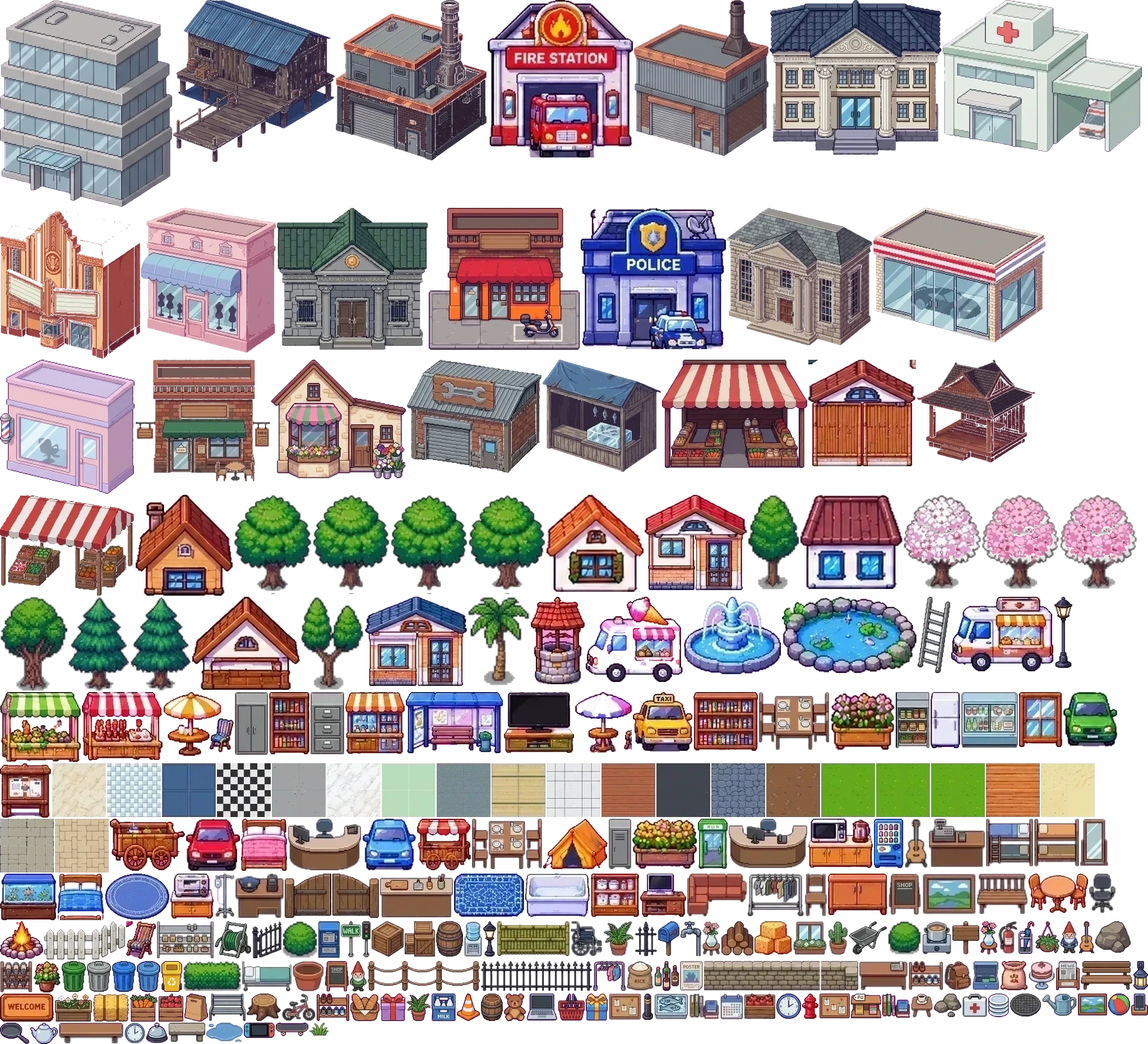
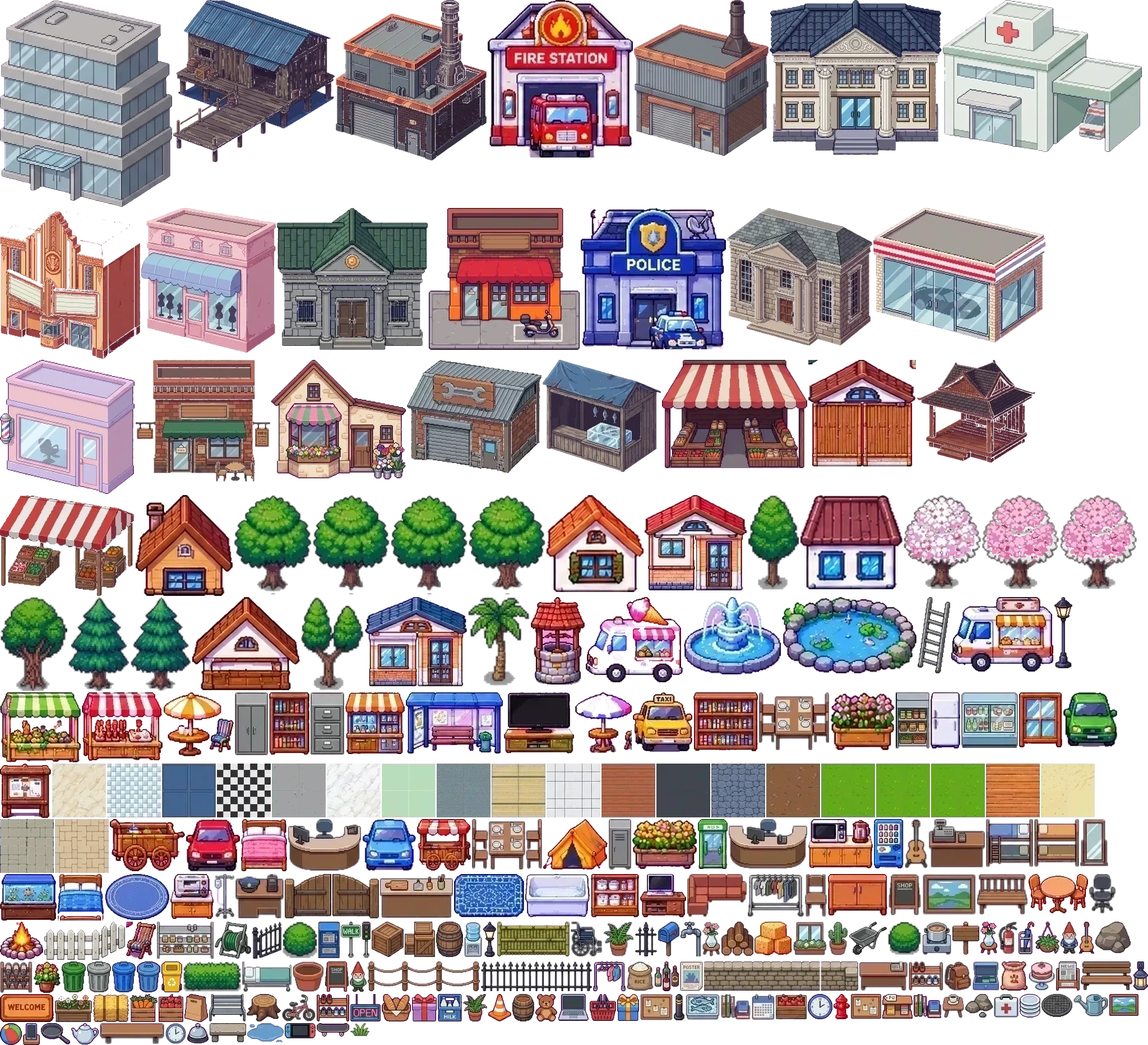
Neon OPEN signs beside shop doors (shown only while the shop is open) and a cake on show outside the restaurant
Claude-Session: https://claude.ai/code/session_011vTRLcvJmqJKhBboYRSi88

diff --git a/server/data.js b/server/data.js
@@ -261,6 +261,9 @@ for (const [x, y] of [[50, 52], [50, 66], [30, 47], [70, 15], [25, 15], [50, 10]
 prop('newsbox', 57.3, 38.9); prop('bollard', 47.6, 39.95); prop('bollard', 52.4, 39.95);
 // A-frame signs by the doors of open shops, produce on the market stall, a lantern at the fishing club
 for (const id of ['restaurant', 'fashion', 'toolshop', 'rider', 'kitchen']) { const b = BUILDINGS.find(x => x.id === id); if (b) prop('i_shopsign', b.x + b.w - .2, b.y + b.h + .05, false); }
+// neon OPEN signs hung beside the doors (lit only while the shop is open), and a cake on show outside the restaurant
+for (const id of ['restaurant', 'fashion', 'toolshop', 'rider', 'kitchen', 'bank']) { const b = BUILDINGS.find(x => x.id === id); if (b) PROPS.push({ s: 'i_open', x: b.x + .7, y: b.y + b.h + .02, z: 1.3, open: id }); }
+{ const r = BUILDINGS.find(x => x.id === 'restaurant'); if (r) prop('i_cake', r.x + .5, r.y + r.h + .05, false); }
 { const m = BUILDINGS.find(x => x.id === 'market'); if (m) { prop('i_crate_apple', m.x - .4, m.y + m.h); prop('i_crate_carrot', m.x + m.w + .4, m.y + m.h); prop('i_pricestand', m.x + m.w + 1.6, m.y + m.h); } }
 { const f = BUILDINGS.find(x => x.id === 'fishhut'); if (f) prop('i_lantern', f.x - .3, f.y + f.h + .05, false); }
 prop('i_bin_yellow', 58.6, 38.9);

diff --git a/public/game.js b/public/game.js
@@ -690,7 +690,7 @@ function draw(t) {
   if (!myRoom) drawCastShadows(ents, X, Y, night);
   for (const [, k, e] of ents) {
     if (k === 0) drawBuildingSprite(e, X, Y);
-    else if (k === 1) spr(e.s, e.x, e.y, X, Y);
+    else if (k === 1) { if (!e.open || isOpen(e.open)) spr(e.s, e.x, e.y - (e.z || 0), X, Y); }   // z: hung on a wall; open: only while that shop is open
     else if (k === 2) spr(e[2], e[0] + .5, e[1] + 1.05, X, Y);
     else if (k === 3) spr(e[0], e[1], e[2], X, Y);
     else drawPlayer(e, X, Y, t);
@@ -1754,7 +1754,7 @@ function drawCastShadows(ents, X, Y, night) {
   };
   for (const [, kind, e] of ents) {
     if (kind === 0) one(e.sprite, e.x + e.w / 2, e.y + e.h + .02);
-    else if (kind === 1) one(e.s, e.x, e.y);
+    else if (kind === 1 && !e.z) one(e.s, e.x, e.y);
     else if (kind === 2) one(e[2], e[0] + .5, e[1] + 1.05);
     else if (kind === 4 && e.rx != null) {          // people: a body-shaped blob
       g.setTransform(DPR, 0, -k * DPR, -d * DPR, ((e.rx) * TS + X) * DPR, ((e.ry + .32) * TS + Y) * DPR);
